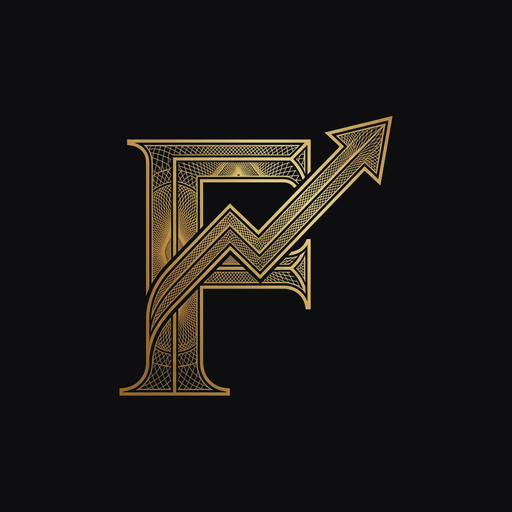
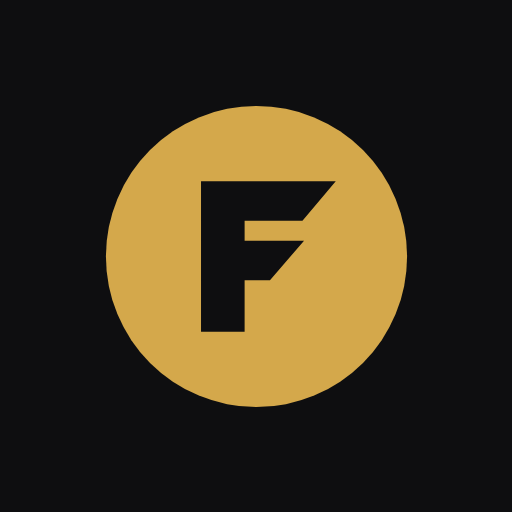
feat(marka): vektör F amblemi — başlıkta eğik kesimli F, ikonlarda sikke içinde F
- Gravürlü raster amblem küçük boyutta okunmuyordu; tek parça SVG ile değiştirildi (currentColor, tema uyumlu)
- icon.svg + favicon.ico/16/32, apple-touch, android 192/512, logo.png sikke tasarımından
- og-default.png yeni amblemle; kaynak SVG'ler docs/brand altında
- Eski raster logo-mark görselleri kaldırıldı

Changed region(s): [[0.1875, 0.1875, 0.8125, 0.8125]]

diff --git a/client/src/components/layout/Logo.tsx b/client/src/components/layout/Logo.tsx
@@ -2,18 +2,15 @@ import Link from 'next/link';
 import { cn } from '@/lib/utils';
 
 /**
- * Marka amblemi: gravürlü serif "F" ve içinden yükselen grafik oku.
- * Koyu temada parlak altın, açık temada aynı çizimin bronz tonu. İnce gravür çizgileri
- * tarayıcı küçültmesinde soluklaştığı için 1x/2x boyutları önceden hazırlandı (public/atlas/logo-mark-36|72*.png).
+ * Marka amblemi: kolları yukarı doğru eğik kesik "F" — harfin kendisi yükselişi anlatır.
+ * Tek parça vektör; 16px'te de okunur, rengi temadan (currentColor) gelir.
+ * Favicon/uygulama ikonlarında aynı F altın sikke içinde kullanılır (public/icon.svg).
  */
 export function LogoMark({ className }: { className?: string }) {
   return (
-    <span className={cn('block h-9 w-[35px] shrink-0', className)}>
-      {/* eslint-disable-next-line @next/next/no-img-element */}
-      <img src="/atlas/logo-mark-36.png" srcSet="/atlas/logo-mark-36.png 1x, /atlas/logo-mark-72.png 2x" alt="" width={35} height={36} fetchPriority="high" className="theme-dark-only" />
-      {/* eslint-disable-next-line @next/next/no-img-element */}
-      <img src="/atlas/logo-mark-36-light.png" srcSet="/atlas/logo-mark-36-light.png 1x, /atlas/logo-mark-72-light.png 2x" alt="" width={35} height={36} fetchPriority="high" className="theme-light-only" />
-    </span>
+    <svg viewBox="0 0 40 40" fill="currentColor" aria-hidden="true" className={cn('h-8 w-8 shrink-0', className)}>
+      <path d="M7 35V9a3 3 0 0 1 3-3h24l-7 8H15v5h11l-6 7h-5v9z" />
+    </svg>
   );
 }
 
@@ -24,7 +21,7 @@ export function Logo({ className }: { className?: string }) {
       aria-label="FinansÇözüm ana sayfa"
       className={cn('group flex items-center gap-2.5 text-foreground', className)}
     >
-      <LogoMark className="transition-transform duration-300 group-hover:scale-105" />
+      <LogoMark className="text-primary transition-transform duration-300 group-hover:-translate-y-0.5" />
       <span className="font-display text-[1.6rem] leading-none tracking-tight">
         Finans<span className="text-primary">Çözüm</span>
       </span>

diff --git a/client/src/app/layout.tsx b/client/src/app/layout.tsx
@@ -64,15 +64,16 @@ export const metadata: Metadata = {
   // ── Favicon & Icons ──
   icons: {
     icon: [
-      { url: '/favicon-16x16.png?v=2', sizes: '16x16', type: 'image/png' },
-      { url: '/favicon-32x32.png?v=2', sizes: '32x32', type: 'image/png' },
-      { url: '/favicon.ico?v=2', sizes: 'any' },
+      { url: '/icon.svg?v=3', type: 'image/svg+xml' },
+      { url: '/favicon-16x16.png?v=3', sizes: '16x16', type: 'image/png' },
+      { url: '/favicon-32x32.png?v=3', sizes: '32x32', type: 'image/png' },
+      { url: '/favicon.ico?v=3', sizes: 'any' },
     ],
     apple: [
-      { url: '/apple-touch-icon.png?v=2', sizes: '180x180', type: 'image/png' },
+      { url: '/apple-touch-icon.png?v=3', sizes: '180x180', type: 'image/png' },
     ],
     other: [
-      { rel: 'android-chrome', url: '/android-chrome-192x192.png?v=2', sizes: '192x192' },
+      { rel: 'android-chrome', url: '/android-chrome-192x192.png?v=3', sizes: '192x192' },
     ],
   },
   manifest: '/site.webmanifest',
